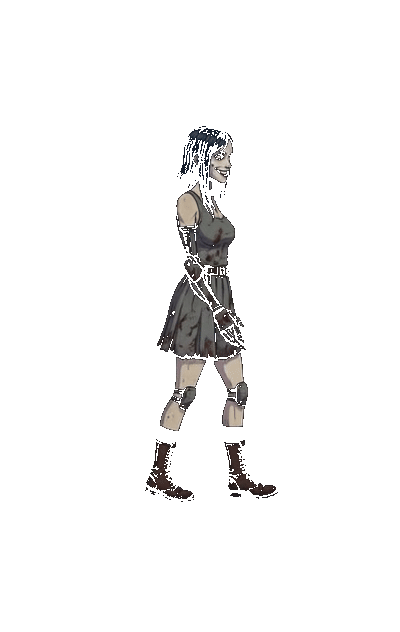
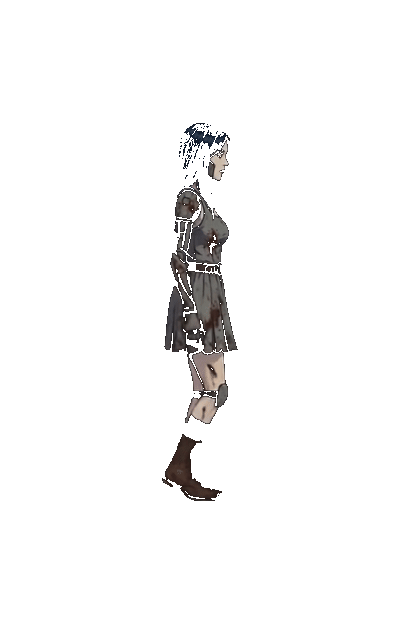
feat(proyecto-y): add 8-directional movement system
- Add diagonal walk animations (up-left, up-right, down-left, down-right)
- Update player.three.ts to use play8DirectionalMovement for Proyecto-Y
- Update right walk sprites with improved assets

🤖 Generated with [Claude Code](https://claude.com/claude-code)

Changed region(s): [[0.36, 0.1804, 0.69, 0.8117]]

diff --git a/frontend/nuvaris-temp/src/app/game/entities/player.three.ts b/frontend/nuvaris-temp/src/app/game/entities/player.three.ts
@@ -191,9 +191,11 @@ export class PlayerThree {
             loop: false
         });
 
-        // === LARS-SPECIFIC ANIMATIONS ===
+        // === CHARACTER-SPECIFIC ANIMATIONS ===
         if (this.characterId === 'lars') {
             this.loadLarsAnimations();
+        } else if (this.characterId === 'proyecto-y') {
+            this.loadProyectoYAnimations();
         } else {
             // Other characters use shoot animations (30 frames)
             this.loadShootAnimations(folder, prefix);
@@ -325,6 +327,62 @@ export class PlayerThree {
         });
 
         console.log('[LARS] Loaded 8-directional movement + 8-directional attack + 4-directional charge + 360° rotation animations');
+    }
+
+    /**
+     * Load Proyecto-Y specific animations:
+     * - 4 diagonal movement animations (30 frames each)
+     * - Shoot animations
+     */
+    private loadProyectoYAnimations() {
+        const folder = 'proyecto-y';
+        const prefix = 'proyecto-y-';
+
+        // === DIAGONAL MOVEMENT (30 frames each) ===
+        this.animator.loadAnimation({
+            name: 'run-up-left',
+            texturePath: `assets/${folder}/up-left`,
+            prefix: `${prefix}walk-up-left-`,
+            suffix: '.png',
+            frameCount: 30,
+            frameRate: 30,
+            loop: true
+        });
+
+        this.animator.loadAnimation({
+            name: 'run-up-right',
+            texturePath: `assets/${folder}/up-right`,
+            prefix: `${prefix}walk-up-right-`,
+            suffix: '.png',
+            frameCount: 30,
+            frameRate: 30,
+            loop: true
+        });
+
+        this.animator.loadAnimation({
+            name: 'run-down-left',
+            texturePath: `assets/${folder}/down-left`,
+            prefix: `${prefix}walk-down-left-`,
+            suffix: '.png',
+            frameCount: 30,
+            frameRate: 30,
+            loop: true
+        });
+
+        this.animator.loadAnimation({
+            name: 'run-down-right',
+            texturePath: `assets/${folder}/down-right`,
+            prefix: `${prefix}walk-down-right-`,
+            suffix: '.png',
+            frameCount: 30,
+            frameRate: 30,
+            loop: true
+        });
+
+        // === SHOOT ANIMATIONS ===
+        this.loadShootAnimations(folder, prefix);
+
+        console.log('[PROYECTO-Y] Loaded 8-directional movement + shoot animations');
     }
 
     /**
@@ -481,9 +539,9 @@ export class PlayerThree {
             // Shooting animation is handled in shoot()
             animationPlayed = 'shooting';
         } else if (this.isMoving) {
-            // Movement animations - Lars uses 8-directional
-            if (this.characterId === 'lars') {
-                animationPlayed = this.playLarsMovementAnimation(moveX, moveZ);
+            // Movement animations - Lars and Proyecto-Y use 8-directional
+            if (this.characterId === 'lars' || this.characterId === 'proyecto-y') {
+                animationPlayed = this.play8DirectionalMovement(moveX, moveZ);
             } else {
                 animationPlayed = this.playCardinalMovementAnimation(moveX, moveZ);
             }
@@ -501,9 +559,9 @@ export class PlayerThree {
     }
 
     /**
-     * Play Lars 8-directional movement animation
+     * Play 8-directional movement animation (used by Lars and Proyecto-Y)
      */
-    private playLarsMovementAnimation(moveX: number, moveZ: number): string {
+    private play8DirectionalMovement(moveX: number, moveZ: number): string {
         const dir = this.getDirection8FromMovement(moveX, moveZ);
         let animName = '';
 
